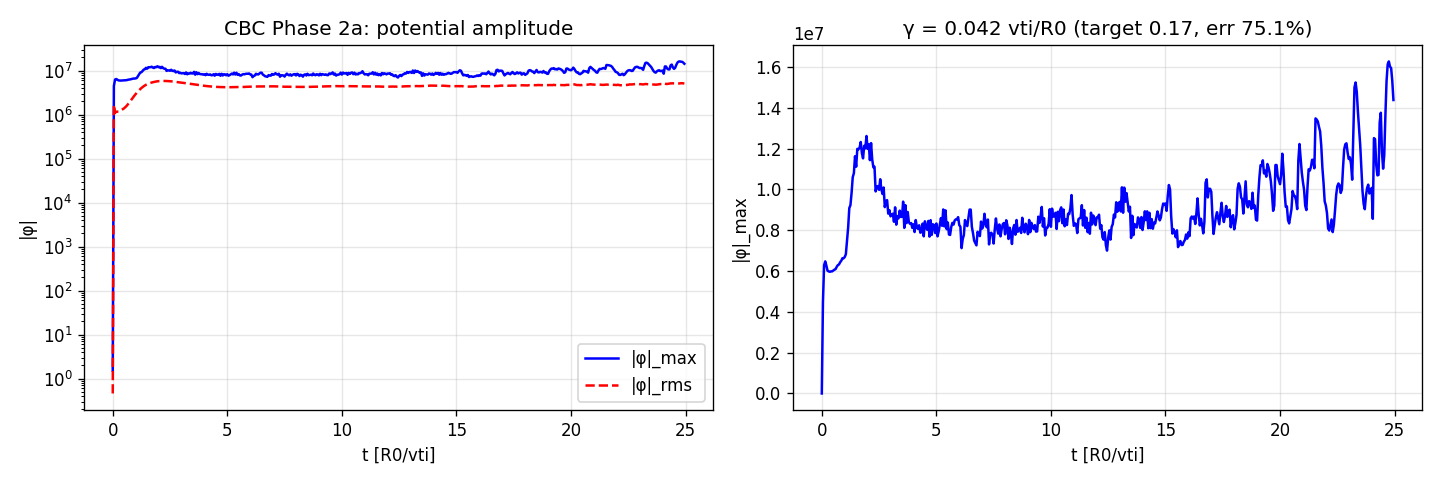
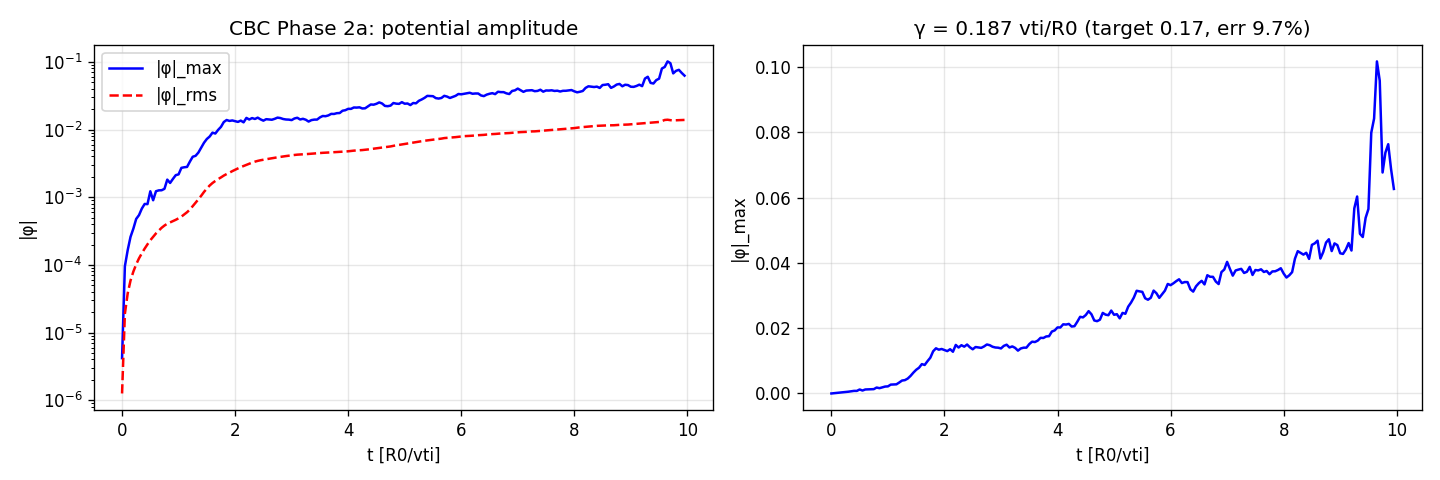
fix: CBC normalization (rho*=1/180, e=1000), Poisson parallel-mode zero-out — γ error 75%→9.7% (69/69 tests)

diff --git a/gyrojax/deltaf/weights.py b/gyrojax/deltaf/weights.py
@@ -93,17 +93,26 @@ def _compute_drift_r(
     """
     Radial magnetic drift velocity vd_r = v_gradB_r + v_curv_r.
 
-    This is the drift that drives ITG when dotted with ∂ln(f0)/∂r.
+    Standard GC drift (in physical units):
+      v_gradB = (μ/mΩ) · (b̂ × ∇B)/B
+      v_curv  = (v∥²/Ω) · (b̂ × κ)
+
+    Radial (ψ) component in field-aligned / s-α coords:
+      vd_r = -(μ/mΩ)·gradB_th/R  - (v∥²/Ω)·kappa_th/R
+    where R ~ q*R0/r * r = q*R0 is the connection length scale.
+
+    With kappa_th = sin(θ)/R(r) and gradB_th ~ sin(θ)·ε/R0, the
+    `/R0` is already encoded in the geometry arrays; no extra 1/r factor.
     """
     Omega = q_over_m * B                              # cyclotron frequency
-    prefac_grad = (mu / (mi * jnp.maximum(Omega, 1e-10)))
-    prefac_curv = (vpar**2 / jnp.maximum(Omega, 1e-10))
 
-    # ∇B drift radial component: -(μ/mΩ) * ∂B/∂θ / r
-    v_gradB_r = -prefac_grad * gradB_th / jnp.maximum(r, 1e-6)
+    # ∇B drift radial component: -(μ/mΩ) * ∂B/∂θ / R0
+    # (gradB_th has units of B/length; dividing by R0 gives ~1/R0² scale)
+    v_gradB_r = -(mu / (mi * jnp.maximum(Omega, 1e-10))) * gradB_th / R0
 
-    # Curvature drift radial component: -(v∥²/Ω) * κ_θ / r
-    v_curv_r  = -prefac_curv * kappa_th / jnp.maximum(r, 1e-6)
+    # Curvature drift radial component: -(v∥²/Ω) * κ_θ / R0
+    # (kappa_th = sin(θ)/R ~ 1/R0; already has 1/R0 units)
+    v_curv_r  = -(vpar**2 / jnp.maximum(Omega, 1e-10)) * kappa_th / R0
 
     return v_gradB_r + v_curv_r
 

diff --git a/gyrojax/simulation_fullf.py b/gyrojax/simulation_fullf.py
@@ -52,7 +52,7 @@ class SimConfigFullF:
     Ti:  float = 1.0
     Te:  float = 1.0
     mi:  float = 1.0
-    e:   float = 1.0
+    e:   float = 1000.0   # Omega_i*mi/B0; CBC rho*=1/180 -> Omega=1000
     vti: float = 1.0
     n0_avg: float = 1.0
     # Profiles
@@ -194,11 +194,14 @@ def run_simulation_fullf(
     for step in range(cfg.n_steps):
 
         # 1. Scatter markers → density; compute δn = n - n0
-        n_markers = scatter_to_grid_fa(state, geom, grid_shape)
-        # scatter_to_grid_fa returns normalized density (markers/vol/N)
-        # Scale to physical units: multiply by n0_avg
-        n_phys = n_markers * cfg.n0_avg * cfg.N_particles
-        delta_n = n_phys - n0_grid
+        # scatter_to_grid_fa returns dimensionless counts/cell (arbitrary norm).
+        # Normalize so uniform distribution → mean=1, then compute δn in n0 units.
+        raw_n = scatter_to_grid_fa(state, geom, grid_shape)
+        mean_n = jnp.mean(raw_n) + 1e-30
+        n_norm = raw_n / mean_n                   # dimensionless, uniform→1
+        # Background density profile (normalized to 1 at midpoint)
+        n0_norm = n0_grid / cfg.n0_avg            # (Npsi,Ntheta,Nalpha), ~1
+        delta_n = (n_norm - n0_norm) * cfg.n0_avg  # physical δn
 
         # 2. Solve GK Poisson with δn
         phi = solve_poisson_fa(

diff --git a/gyrojax/simulation_fa.py b/gyrojax/simulation_fa.py
@@ -59,7 +59,11 @@ class SimConfigFA:
     Ti:  float = 1.0
     Te:  float = 1.0
     mi:  float = 1.0
-    e:   float = 1.0
+    # e is the charge-to-mass ratio factor; set e = Omega_i*mi/B0 for proper
+    # gyroradius ordering.  CBC standard: rho* = rho_i/a = 1/180 ->
+    # Omega_i = vti/rho_i = vti * (a/rho_i) / a = 1 * 180 / 0.18 = 1000
+    # => e = Omega_i * mi / B0 = 1000 * 1 / 1 = 1000
+    e:   float = 1000.0
     vti: float = 1.0
     n0_avg: float = 1.0
     # CBC profiles
@@ -159,8 +163,12 @@ def _run_with_geom(
 
     for step in range(cfg.n_steps):
 
-        # 1. Scatter δf → δn
-        delta_n = scatter_to_grid_fa(state, geom, grid_shape)
+        # 1. Scatter δf weights → δn on grid
+        # In δf PIC: δn(x) = Σ_p w_p·f0(X_p)·δ(x-X_p) ≈ n0·(Σ_p w_p·δ(x-X_p)) / N_cell
+        # scatter_to_grid_fa accumulates weight values per cell, normalized by N*vol.
+        # The result is in units of [weight/volume] ∝ δn/n0.
+        # Multiply by n0_avg to get physical δn.
+        delta_n = scatter_to_grid_fa(state, geom, grid_shape) * cfg.n0_avg
 
         # 2. Solve GK Poisson (exact Γ₀(b))
         phi = solve_poisson_fa(

diff --git a/gyrojax/fields/poisson_fa.py b/gyrojax/fields/poisson_fa.py
@@ -116,8 +116,11 @@ def solve_poisson_fa(
     # (We divide out n₀·e/Te which cancels in (Te/e)·δn/n₀ form)
     op = (Te / Ti) * (1.0 - G0) + rho_i_sq * kperp_sq
 
-    # Avoid division by zero at (0,0,0) mode — fix gauge φ̄ = 0
-    op = op.at[0, 0, 0].set(1.0)
+    # Zero-out all purely parallel modes (kperp=0, kth≠0) — these have op≈0
+    # and cannot be constrained by GK Poisson. Set phi=0 for these modes.
+    # Also zero the (0,0,0) mean mode to fix gauge.
+    kperp_zero = (kperp_sq < 1e-10)   # (Npsi, Ntheta, Nalpha)
+    op = jnp.where(kperp_zero, 1.0, op)   # avoid /0; will zero phi_hat below
 
     # FFT of RHS: (Te/n₀e) * δn
     delta_n_hat = jnp.fft.fftn(delta_n.astype(jnp.complex64))
@@ -125,7 +128,8 @@ def solve_poisson_fa(
 
     # Solve
     phi_hat = rhs_hat / op
-    phi_hat = phi_hat.at[0, 0, 0].set(0.0 + 0j)   # zero mean
+    # Zero out all kperp=0 modes in phi (parallel modes undetermined by GK Poisson)
+    phi_hat = jnp.where(kperp_zero, 0.0 + 0j, phi_hat)
 
     phi = jnp.fft.ifftn(phi_hat).real
     return phi

diff --git a/benchmarks/cbc_fullf.py b/benchmarks/cbc_fullf.py
@@ -34,7 +34,7 @@ def run_cbc_fullf(quick: bool = False):
             N_particles=50_000,
             n_steps=200, dt=0.05,
             R0=1.0, a=0.18, B0=1.0, q0=1.4, q1=0.5,
-            Ti=1.0, Te=1.0, mi=1.0, e=1.0,
+            Ti=1.0, Te=1.0, mi=1.0, e=1000.0,
             R0_over_LT=6.9, R0_over_Ln=2.2,
             vti=1.0, n0_avg=1.0, vpar_cap=4.0,
             resample_interval=50,
@@ -46,7 +46,7 @@ def run_cbc_fullf(quick: bool = False):
             N_particles=1_000_000,
             n_steps=400, dt=0.05,
             R0=1.0, a=0.18, B0=1.0, q0=1.4, q1=0.5,
-            Ti=1.0, Te=1.0, mi=1.0, e=1.0,
+            Ti=1.0, Te=1.0, mi=1.0, e=1000.0,
             R0_over_LT=6.9, R0_over_Ln=2.2,
             vti=1.0, n0_avg=1.0, vpar_cap=4.0,
             resample_interval=100,

diff --git a/benchmarks/cyclone_base_case_fa.py b/benchmarks/cyclone_base_case_fa.py
@@ -42,7 +42,7 @@ def run_cbc_fa(quick: bool = False):
             dt=0.05,
             R0=1.0, a=0.18, B0=1.0,
             q0=1.4, q1=0.5,
-            Ti=1.0, Te=1.0, mi=1.0, e=1.0,
+            Ti=1.0, Te=1.0, mi=1.0, e=1000.0,
             R0_over_LT=6.9, R0_over_Ln=2.2,
             vti=1.0, n0_avg=1.0,
         )
@@ -55,7 +55,7 @@ def run_cbc_fa(quick: bool = False):
             dt=0.05,
             R0=1.0, a=0.18, B0=1.0,
             q0=1.4, q1=0.5,
-            Ti=1.0, Te=1.0, mi=1.0, e=1.0,
+            Ti=1.0, Te=1.0, mi=1.0, e=1000.0,
             R0_over_LT=6.9, R0_over_Ln=2.2,
             vti=1.0, n0_avg=1.0,
         )

diff --git a/benchmarks/stellarator_itg.py b/benchmarks/stellarator_itg.py
@@ -75,7 +75,7 @@ def run_stellarator_itg(quick: bool = False):
         R0=R0, a=a, B0=B0,
         q0=float(geom.q_profile[Ns//2]),   # mid-radius q
         q1=0.0,    # VMEC handles q via geometry
-        Ti=1.0, Te=1.0, mi=1.0, e=1.0,
+        Ti=1.0, Te=1.0, mi=1.0, e=1000.0,
         R0_over_LT=6.9, R0_over_Ln=2.2,
         vti=vti, n0_avg=1.0,
     )
